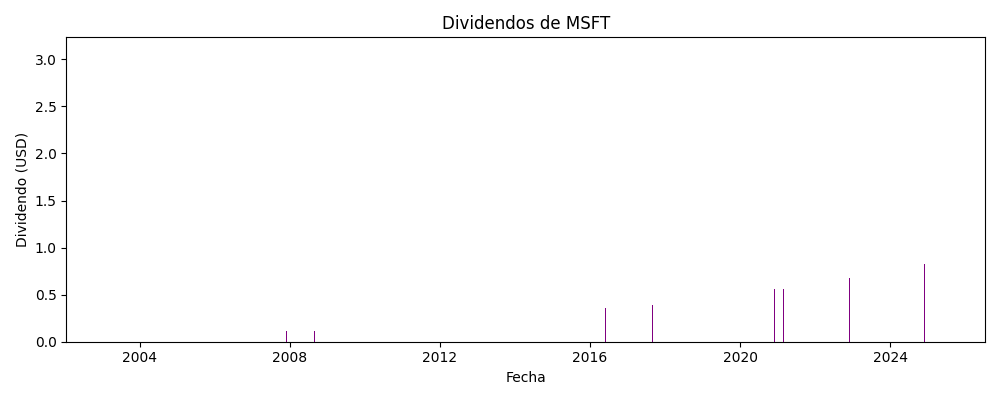
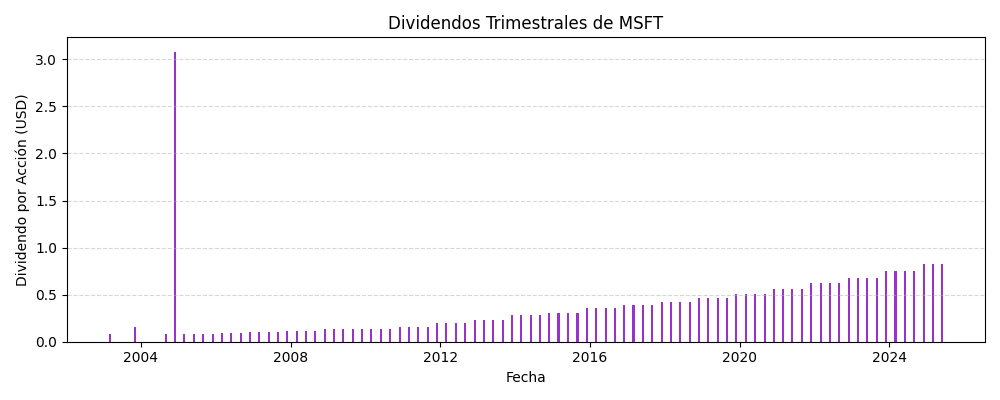
Mofidicacion del Analisis y Graficos de MSFT

diff --git a/ACCIONES_PRINCIPALES/MSFT/analisis_msft.py b/ACCIONES_PRINCIPALES/MSFT/analisis_msft.py
@@ -1,49 +1,52 @@
 import pandas as pd
 import matplotlib.pyplot as plt
 
-# Leer el archivo limpio
+# Leer el archivo con fechas y renombrar columna
 df = pd.read_csv("datos_limpios_MSFT.csv", parse_dates=["Unnamed: 0"])
 df.rename(columns={"Unnamed: 0": "Fecha"}, inplace=True)
 df.set_index("Fecha", inplace=True)
 
-# Calcular rendimiento mensual (%)
+# ----- Cálculo de métricas financieras -----
+
+# Rendimiento mensual en porcentaje
 df['rendimiento'] = df['adjusted_close'].pct_change() * 100
 
-# Calcular volatilidad móvil (desviación estándar de 3 meses)
+# Volatilidad móvil (desviación estándar de 3 meses)
 df['volatilidad'] = df['rendimiento'].rolling(window=3).std()
 
-# Filtrar meses con dividendos
+# Filtrar solo meses con dividendos > 0
 dividendos = df[df['dividend'] > 0]
 
-# --------- GRÁFICO 1: Precio Ajustado ----------
+# ----- GRÁFICO 1: Precio Ajustado -----
 plt.figure(figsize=(10, 5))
-plt.plot(df.index, df['adjusted_close'], color='blue', marker='o')
-plt.title("Precio Ajustado de Microsoft (MSFT)")
+plt.plot(df.index, df['adjusted_close'], color='blue', marker='o', markersize=3, linewidth=1)
+plt.title("Precio Ajustado de Apple (AAPL)")
 plt.xlabel("Fecha")
-plt.ylabel("Precio USD")
-plt.grid(True)
+plt.ylabel("Precio (USD)")
+plt.grid(True, linestyle='--', alpha=0.5)
 plt.tight_layout()
-plt.savefig("grafico_precio_msft.png")
+plt.savefig("grafico_precio_AAPL.png")
 plt.show()
 
-# --------- GRÁFICO 2: Rendimiento Mensual ----------
+# ----- GRÁFICO 2: Rendimiento Mensual -----
 plt.figure(figsize=(10, 5))
-plt.bar(df.index, df['rendimiento'], color='green')
-plt.title("Rendimiento Mensual de MSFT (%)")
+plt.bar(df.index, df['rendimiento'], color='green', width=20)
+plt.title("Rendimiento Mensual de AAPL (%)")
 plt.xlabel("Fecha")
 plt.ylabel("Rendimiento (%)")
 plt.axhline(0, color='black', linewidth=1)
-plt.grid(True)
+plt.grid(True, linestyle='--', alpha=0.5)
 plt.tight_layout()
-plt.savefig("grafico_rendimiento_msft.png")
+plt.savefig("grafico_rendimiento_AAPL.png")
 plt.show()
 
-# --------- GRÁFICO 3: Dividendos ----------
+# ----- ✅ GRÁFICO 3: Dividendos (CORREGIDO) -----
 plt.figure(figsize=(10, 4))
-plt.bar(dividendos.index, dividendos['dividend'], color='purple')
-plt.title("Dividendos de MSFT")
+plt.bar(dividendos.index, dividendos['dividend'], color='darkorchid', width=20)
+plt.title("Dividendos Trimestrales de AAPL")
 plt.xlabel("Fecha")
-plt.ylabel("Dividendo (USD)")
+plt.ylabel("Dividendo por Acción (USD)")
+plt.grid(axis='y', linestyle='--', alpha=0.5)
 plt.tight_layout()
-plt.savefig("grafico_dividendos_msft.png")
+plt.savefig("grafico_dividendos_AAPL.png")
 plt.show()
